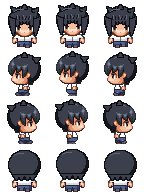
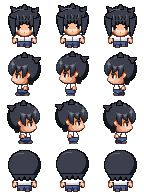
ちびキャラ：横向きの立ち姿の足とハルの胴・ズボン・腕の位置を手本に合わせる
Claude-Session: https://claude.ai/code/session_017gxvkc2TW4xYgG5MuSL3N1

diff --git a/files.js b/files.js
@@ -2,7 +2,7 @@
 // マップなどを足したら scripts に1行足す（順番どおりに読み込む。main.js は最後）。
 // 版の番号 v は tools/stamp.py が書き換える。
 window.FILES = {
-  v: '20261127052341',
+  v: '20261127052624',
   scripts: [
     'engine/core.js',
     'engine/world.js',

diff --git a/tools/sprites/make_chibi.py b/tools/sprites/make_chibi.py
@@ -131,7 +131,8 @@ def body(a, c, side, step, back):
             span_part(a, TORSO_SIDE_BOY, c['top1'], c['top2'], c['topLine'])
         a.stroke([(-3, 36), (2, 36)], (255, 253, 244))  # 肩の上の面
         # 腕（肩から手へ）と手
-        a.part([('p', [(-0.4, 36.4), (3, 36.4), (3.4 + sw, 38.6), (0 + sw, 38.6)])], c['top1'], c['top2'], line=c['topLine'], lw=0.6)
+        ax = 0 if c['girl'] else -1  # 男子の腕は手本どおり後ろの端が +3
+        a.part([('p', [(-0.4 + ax, 36.4), (3 + ax, 36.4), (3.4 + ax + sw, 38.6), (ax + sw, 38.6)])], c['top1'], c['top2'], line=c['topLine'], lw=0.6)
         a.dots(sw, 38, ['.oKo.', 'oLMKo', 'oMMKo', 'oKdKE', '.EEE.'], {'o': c['handO'], 'd': c['handO'], 'E': c['line'], 'K': c['skinS'], 'L': c['skin2'], 'M': c['skin1']})
         if girl:
             a.part([('p', [(-5, 36.4), (-3, 36.4), (-4, 38.4)])], c['ribbon1'], c['ribbon2'], lw=0.4)
@@ -251,7 +252,7 @@ def feet(a, c, side, step):
         if step != 1:  # 歩きのコマは手本の作りの表で描く
             walk_side(a, c, step)
             return
-        fx, fu, bx, bu = {0: (-7, 1, 3, 0), 1: (-3, 0, 1, 0), 2: (-5, 0, 3, 1)}[step]
+        fx, fu, bx, bu = {0: (-7, 1, 3, 0), 1: (-5, 0, -1, 0), 2: (-5, 0, 3, 1)}[step]  # 立ち姿：46行 −5〜+2、47行 −6〜+2
         for rows, x0, up in ((back, bx, bu), (front, fx, fu)):
             a.dots(x0, 46 - up, [rows[0]], pal)
             a.dots(x0 - 1, 47 - up, [rows[1]], pal)
@@ -366,9 +367,9 @@ FACE_SIDE = {**{y: (-9, -1) for y in range(16, 23)}, 23: (-10, 2), 24: (-10, 2),
              27: (-12, 2), 28: (-12, 2), 29: (-13, 3), 30: (-13, 3), 31: (-13, 3), 32: (-11, 3), 33: (-10, 3), 34: (-8, 2)}
 FACE_SIDE_LINE = [(-12, 32), (-11, 33), (-10, 34), (-9, 34)] + [(x, 35) for x in range(-8, 4)]  # あごの下だけ濃い輪郭（前の縁は輪郭なし）
 # 横向きの胴：上は細く、前の縁を斜めに下へ広げて、下半身の広さとの落差を出す
-TORSO_SIDE_BOY = {36: (-4, 4), 37: (-5, 4), 38: (-5, 4), 39: (-6, 5), 40: (-6, 5)}
-BELT_SIDE_BOY = {41: (-6, 5)}
-PANTS_SIDE_BOY = {42: (-6, 4), 43: (-6, 4), 44: (-5, 4), 45: (-4, 4)}  # 45行が裾の輪郭
+TORSO_SIDE_BOY = {36: (-5, 3), 37: (-6, 3), 38: (-6, 3), 39: (-7, 4), 40: (-7, 4)}
+BELT_SIDE_BOY = {41: (-7, 4)}
+PANTS_SIDE_BOY = {42: (-7, 3), 43: (-7, 3), 44: (-6, 3), 45: (-6, 2)}  # 45行が裾の輪郭
 TORSO_SIDE_GIRL = {36: (-5, 4), 37: (-6, 4), 38: (-6, 4), 39: (-7, 4)}
 SKIRT_SIDE_GIRL = {40: (-7, 4), 41: (-7, 4), 42: (-8, 5), 43: (-8, 5), 44: (-8, 5), 45: (-8, 5)}  # 45行が裾の輪郭
 

diff --git a/CLAUDE.md b/CLAUDE.md
@@ -10,7 +10,7 @@
 - 校舎（廊下8枚と部屋の型）は `tools/gen_school.py` で生成する。生成した `data/maps/school_*.js` は直接直さず、スクリプトを直して作り直す。お話のイベントは `data/story.js` に `G.addEvents` で足す（`at: '扉の名前'` で位置を決められる）。見取り図の施設名のうち学校が特定されそうな名前は一般的な名前に変える
 - 参考にした市販ゲームのファイル（データ・画像・音・シナリオ）はこのリポジトリに入れない
 - タイル素材（ドット絵世界）は二次配布禁止。元のPNGは入れず、`tools/encode_tileset.py` で変換した `data/tilesets/*.js` だけを入れる。タイトル画面の著作権表示（system.js の credits）は消さない
-- キャラの歩行グラフィックは、いまはちびキャラ（手本：RPGツクールMVの標準キャラの比率、約1.5頭身、1コマ48×48px）。`tools/sprites/make_chibi.py` で描き、`img/chars/haru_chibi.png`・`img/chars/yui_chibi.png` に書き出す。塗りは手本と同じくっきりしたドット絵（48×48pxに直接描く。ベタ塗り、段をつけた影と光、部品ごとに1ドットの濃い輪郭、目は1ドットずつ形を決め、白い光はほぼ使わず外側の白目と上が濃い瞳で表す。髪のかたまりは小さめで額は高め、前髪には毛束の明るい筋を1本おきに入れて凹凸を出す。女子の髪は5段（光・明・中・暗・影）で束ごとに塗り分ける（make_chibi.py の hair_shade。頭頂はつむじから放射状の束で境目に暗い線、頭の丸みに沿って束ごとに上下へずれたギザギザの天使の輪（束の真ん中だけ光の色）、前髪は束ごとに上が明るく下ほど暗く真ん中に光の筋、横・後ろの髪は縦の束で左が明るく右と下が暗い。髪型が手本と違うので、ここは手本を写さず工夫したもの）。胴は肩が細く裾へ広がる八の字で、腕も外へ開く。前髪の毛先は目の上端に接するまで下ろし、真ん中の毛束だけ短くしてそのすき間から額をのぞかせる。前髪のすぐ下の肌には影（1段目は影色、2段目は中間色）。顔の横の髪で、目の外側の端からあごの近くまで顔を縁取る（男子は細く短め）。肌は桃色がかった色（白っぽくしない）。顔は上下と左右に4段（明・中間・影・濃い影）の明暗をドット単位でつけて立体感を出す（前髪の下は中間色→目の下から頬の段がいちばん明るい→その下は中間色→あごの段は影色。左右の端は内側へ濃い影→影→中間色、頬の段は影を1段多く）。目はまるごと見せる。やや上から見下ろしつつ足先まで全身を見せる（胴→スカート／ズボン→脚1ドット（女子は肌色）→靴2ドット（上が明るく下が暗い）。左右の足は幅5ドット（輪郭＋中身3）で間に1ドットのすき間。歩くと上げた足が1ドット上がる）。目は顔の大きさを変えずに大きく、5×5ドット（上まつげは3ドット幅で2段目が内側へ1ドットずれる斜め、黒目3ドット幅で上が濃く一番下が明るい、真ん中に縦2ドットの瞳孔、白目は外側3段・内側2段の両側）。目の間は7ドットで、目の外側は顔の縁（横の髪）に接する。見下ろす角度なので、肩はあごのすぐ下の行から始まり（上の面が明るく見える）、なで肩で下へ広がる。手は丸ではなくミトン形（幅4×高さ5、外側の輪郭は茶色・内側と下は濃い線で腕と胴の境目にもなる、明るい肌は真ん中上寄りに2×2、下の段の内側が欠けてその上に親指の付け根の点）。服の輪郭も濃い色。男子はシャツ6段・ベルト1段・ズボン3段（明るめの色、股の線）。女子のスカートは下半分に、地より濃い色の縦の折り目の線（中心をはさんで4ドット間隔の2本と、裾の両端寄り）。口は省いて鼻を1ドットの点で表す（頬のいちばん明るい段の最後の行、31行目）。幅の割合は、手を含めた体が頭の約8割。その中で胴は細く、肩と手を大きめにする）。横向き（左向き、前がマイナス）は、顔と胴の形を make_chibi.py の「行ごとの前端・後端の表」（FACE_SIDE・TORSO_SIDE_* など）で決める。手本を拡大して各行の端の位置を測り、その数字をそのまま表に書く（楕円や多角形で近似しない）。横顔は鼻筋がまっすぐ縦に続いたあと鼻で1ドット前に出て（鼻筋から下は顔より前に髪の輪郭を残さない）、その下で輪郭1ドット分の落差をつけてあごへ。あごは34行で終わり（下に出っ張らせない）、前の縁は輪郭線なしで濃い肌色、あごの下だけ濃い輪郭。目は make_chibi.py の EYE_SIDE の表で描く（手本を1ドットずつ測った作り：x −9〜−4、24〜29行。茶色の上まぶたの線が目尻まで続き、黒いまつげ、前の縁は黒、黒目は2ドット幅で上の段に瞳孔、白目は白と灰色の2列、目尻は濃い影の肌、いちばん下の段は明るい黒目。女子は目尻の列が髪にかかる）。目の前端は鼻筋から肌4ドット後ろ。耳のまわりは make_chibi.py の EAR_SIDE_BOY／EAR_SIDE_GIRL の表で描く（手本を1ドットずつ測った作り：縦長のアーモンド形の耳で、上の縁は茶色、前の縁は黒、真ん中がいちばん明るい。耳の前はもみあげの髪で、顔側の縁は暗い髪色。もみあげの下の縁は耳の前から左下へ下りる黒い斜めの線（女子はあごの近くまで垂れる）。耳の下はあご・首の肌が後ろへ続き、その後ろの髪は影の色）。前髪は make_chibi.py の BANGS_SIDE の表で描く（手本を1ドットずつ測った作り：x −16〜+3、10〜26行。前の縁は黒ではなく暗い髪色で、上から前へふくらみ、いちばん前の束は26行まで垂れて顔の前を覆う。前・真ん中・耳の前の3本の束に分かれ、束の間から21〜24行で肌がのぞく。18行から下は束の境目に暗い線、光は前上と後ろ寄りの2か所。色は5段に置き換える）。明暗は前の縁が濃い影、前寄りの頬が最も明るく、耳に近い後ろほど暗い。女子の後ろ髪はあごの高さまで。胴は上が細く（36行で9〜10ドット）前の縁を斜めに下へ広げ、スカート・ズボンの広さとの落差を出す。手は胴の中ほどより後ろに4×5ドット。足元はスカート・ズボンの裾の輪郭が45行、その下は脚1段＋靴1段の2段だけ（46・47行）。靴は脚より1ドット前に出たつま先で表し、輪郭は黒ではなく靴の暗い色。立ち姿は前後の足が並び（46行 −3〜+4、47行 −4〜+4）、歩きのコマ（0・2）の足まわりは make_chibi.py の WALK_SIDE_BOY／WALK_SIDE_GIRL の表で描く（手本を1ドットずつ測った作り：男子は裾が前後の脚に分かれて間に黒い線、前の靴が大きく前に出て3段、後ろの足は脚の上に靴。女子はスカートが歩きに合わせて広がり46行まで下がって、その下は靴だけ。ハルは長ズボンなので手本の素足の部分はズボンの色）。手本を使うときは、拡大して絵そのものを見比べるのに加えて、行ごとの端の位置（前端・後端・上下の終わり）を手本とうちで並べて書き出し、1行ずつずれを確かめてから直す（ざっくりした観察で済ませない）。端は肌の色だけでなく、髪や輪郭も含めた「透明でない最も外側の点」で測る（肌だけ測ると、顔の前にはみ出した髪の輪郭で鼻が平らになっているのを見落とす）。「イラストを縮めた柔らかい塗り」は4頭身のための試しで、ちびキャラには使わない。3頭身・4頭身は見送り。約4頭身の版（`make_trial.py`→`trial.png`、`make_haru.py`→`haru.png`）も残してある。手本の絵は写さない（比率と描き方だけ合わせる）。直したらスクリプトを動かして画像を作り直す
+- キャラの歩行グラフィックは、いまはちびキャラ（手本：RPGツクールMVの標準キャラの比率、約1.5頭身、1コマ48×48px）。`tools/sprites/make_chibi.py` で描き、`img/chars/haru_chibi.png`・`img/chars/yui_chibi.png` に書き出す。塗りは手本と同じくっきりしたドット絵（48×48pxに直接描く。ベタ塗り、段をつけた影と光、部品ごとに1ドットの濃い輪郭、目は1ドットずつ形を決め、白い光はほぼ使わず外側の白目と上が濃い瞳で表す。髪のかたまりは小さめで額は高め、前髪には毛束の明るい筋を1本おきに入れて凹凸を出す。女子の髪は5段（光・明・中・暗・影）で束ごとに塗り分ける（make_chibi.py の hair_shade。頭頂はつむじから放射状の束で境目に暗い線、頭の丸みに沿って束ごとに上下へずれたギザギザの天使の輪（束の真ん中だけ光の色）、前髪は束ごとに上が明るく下ほど暗く真ん中に光の筋、横・後ろの髪は縦の束で左が明るく右と下が暗い。髪型が手本と違うので、ここは手本を写さず工夫したもの）。胴は肩が細く裾へ広がる八の字で、腕も外へ開く。前髪の毛先は目の上端に接するまで下ろし、真ん中の毛束だけ短くしてそのすき間から額をのぞかせる。前髪のすぐ下の肌には影（1段目は影色、2段目は中間色）。顔の横の髪で、目の外側の端からあごの近くまで顔を縁取る（男子は細く短め）。肌は桃色がかった色（白っぽくしない）。顔は上下と左右に4段（明・中間・影・濃い影）の明暗をドット単位でつけて立体感を出す（前髪の下は中間色→目の下から頬の段がいちばん明るい→その下は中間色→あごの段は影色。左右の端は内側へ濃い影→影→中間色、頬の段は影を1段多く）。目はまるごと見せる。やや上から見下ろしつつ足先まで全身を見せる（胴→スカート／ズボン→脚1ドット（女子は肌色）→靴2ドット（上が明るく下が暗い）。左右の足は幅5ドット（輪郭＋中身3）で間に1ドットのすき間。歩くと上げた足が1ドット上がる）。目は顔の大きさを変えずに大きく、5×5ドット（上まつげは3ドット幅で2段目が内側へ1ドットずれる斜め、黒目3ドット幅で上が濃く一番下が明るい、真ん中に縦2ドットの瞳孔、白目は外側3段・内側2段の両側）。目の間は7ドットで、目の外側は顔の縁（横の髪）に接する。見下ろす角度なので、肩はあごのすぐ下の行から始まり（上の面が明るく見える）、なで肩で下へ広がる。手は丸ではなくミトン形（幅4×高さ5、外側の輪郭は茶色・内側と下は濃い線で腕と胴の境目にもなる、明るい肌は真ん中上寄りに2×2、下の段の内側が欠けてその上に親指の付け根の点）。服の輪郭も濃い色。男子はシャツ6段・ベルト1段・ズボン3段（明るめの色、股の線）。女子のスカートは下半分に、地より濃い色の縦の折り目の線（中心をはさんで4ドット間隔の2本と、裾の両端寄り）。口は省いて鼻を1ドットの点で表す（頬のいちばん明るい段の最後の行、31行目）。幅の割合は、手を含めた体が頭の約8割。その中で胴は細く、肩と手を大きめにする）。横向き（左向き、前がマイナス）は、顔と胴の形を make_chibi.py の「行ごとの前端・後端の表」（FACE_SIDE・TORSO_SIDE_* など）で決める。手本を拡大して各行の端の位置を測り、その数字をそのまま表に書く（楕円や多角形で近似しない）。横顔は鼻筋がまっすぐ縦に続いたあと鼻で1ドット前に出て（鼻筋から下は顔より前に髪の輪郭を残さない）、その下で輪郭1ドット分の落差をつけてあごへ。あごは34行で終わり（下に出っ張らせない）、前の縁は輪郭線なしで濃い肌色、あごの下だけ濃い輪郭。目は make_chibi.py の EYE_SIDE の表で描く（手本を1ドットずつ測った作り：x −9〜−4、24〜29行。茶色の上まぶたの線が目尻まで続き、黒いまつげ、前の縁は黒、黒目は2ドット幅で上の段に瞳孔、白目は白と灰色の2列、目尻は濃い影の肌、いちばん下の段は明るい黒目。女子は目尻の列が髪にかかる）。目の前端は鼻筋から肌4ドット後ろ。耳のまわりは make_chibi.py の EAR_SIDE_BOY／EAR_SIDE_GIRL の表で描く（手本を1ドットずつ測った作り：縦長のアーモンド形の耳で、上の縁は茶色、前の縁は黒、真ん中がいちばん明るい。耳の前はもみあげの髪で、顔側の縁は暗い髪色。もみあげの下の縁は耳の前から左下へ下りる黒い斜めの線（女子はあごの近くまで垂れる）。耳の下はあご・首の肌が後ろへ続き、その後ろの髪は影の色）。前髪は make_chibi.py の BANGS_SIDE の表で描く（手本を1ドットずつ測った作り：x −16〜+3、10〜26行。前の縁は黒ではなく暗い髪色で、上から前へふくらみ、いちばん前の束は26行まで垂れて顔の前を覆う。前・真ん中・耳の前の3本の束に分かれ、束の間から21〜24行で肌がのぞく。18行から下は束の境目に暗い線、光は前上と後ろ寄りの2か所。色は5段に置き換える）。明暗は前の縁が濃い影、前寄りの頬が最も明るく、耳に近い後ろほど暗い。女子の後ろ髪はあごの高さまで。胴は上が細く（36行で9〜10ドット）前の縁を斜めに下へ広げ、スカート・ズボンの広さとの落差を出す。手は胴の中ほどより後ろに4×5ドット。足元はスカート・ズボンの裾の輪郭が45行、その下は脚1段＋靴1段の2段だけ（46・47行）。靴は脚より1ドット前に出たつま先で表し、輪郭は黒ではなく靴の暗い色。立ち姿は前後の足が並び（46行 −5〜+2、47行 −6〜+2）、歩きのコマ（0・2）の足まわりは make_chibi.py の WALK_SIDE_BOY／WALK_SIDE_GIRL の表で描く（手本を1ドットずつ測った作り：男子は裾が前後の脚に分かれて間に黒い線、前の靴が大きく前に出て3段、後ろの足は脚の上に靴。女子はスカートが歩きに合わせて広がり46行まで下がって、その下は靴だけ。ハルは長ズボンなので手本の素足の部分はズボンの色）。手本を使うときは、拡大して絵そのものを見比べるのに加えて、行ごとの端の位置（前端・後端・上下の終わり）を手本とうちで並べて書き出し、1行ずつずれを確かめてから直す（ざっくりした観察で済ませない）。端は肌の色だけでなく、髪や輪郭も含めた「透明でない最も外側の点」で測る（肌だけ測ると、顔の前にはみ出した髪の輪郭で鼻が平らになっているのを見落とす）。「イラストを縮めた柔らかい塗り」は4頭身のための試しで、ちびキャラには使わない。3頭身・4頭身は見送り。約4頭身の版（`make_trial.py`→`trial.png`、`make_haru.py`→`haru.png`）も残してある。手本の絵は写さない（比率と描き方だけ合わせる）。直したらスクリプトを動かして画像を作り直す
 - 字体：ゲームの文字は M+ 1m（`fonts/mplus-1m-regular.ttf`、M+ FONTS は自由に使用・配布できる）。`G.font()` と css/style.css で指定している。収録外の文字（♪など）は端末のフォントになる
 - 公開は gh-pages ブランチから。更新したら、まず `python3 tools/stamp.py`（files.js の版の番号を新しくする。ブラウザが古いファイルを使い回して新旧が混ざるのを防ぐ）、コミットして `git push origin main main:gh-pages` で両方に送る。そのあと `gh api repos/nzanke/game-test/actions/runs` で「pages build and deployment」が新しいコミットで completed success になったのを確かめてから報告する。ビルドが走らないときは空のコミットを送り直す（Pages 設定のAPIは作業環境から使えない）
 - やりとりと説明は日本語で
